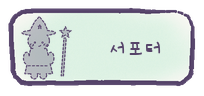
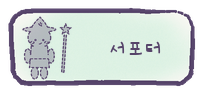
두 종이·체형별 틀 밑그림 생성 (guide_person_<역할>_<체형>, guide_gear_<역할>, paper_person/gear), 틀 카드 아이콘은 사람+무기, 체형 고르기 칸 이미지

Changed region(s): [[0.0882, 0.1562, 0.3529, 0.8438]]

diff --git a/tools/gen_draw.py b/tools/gen_draw.py
@@ -1,9 +1,10 @@
 """유닛 그리기 화면(draw_mode) 이미지 생성 → image/draw/
 
 - panel: 화면을 덮는 커다란 수채화 종이 판
-- paper: 그림을 그리는 흰 도화지 (가운데 PAPER_W x PAPER_H 가 실제로 칠하는 곳)
+- paper_person / paper_gear: 사람·무기를 그리는 흰 도화지 두 장
+- body_<체형> / _on: 체형 고르기 칸 (작은·보통·큰)
 - card / card_on / card_empty: 프리셋(내가 그린 유닛) 카드
-- guide_<id>: 종이에 깔리는 틀 밑그림 — 역할별 귀여운 생물(frames.py)을 삐뚤빼뚤한 연필 점선으로
+- guide_person_<역할>_<체형> / guide_gear_<역할>: 두 종이에 깔리는 틀 밑그림 (frames.py) — 삐뚤빼뚤한 연필 점선
 - frame_<id> / frame_<id>_on: 틀 고르기 카드 (밑그림 + 이름)
 - ink_wave: 고른 잉크 아래 펜으로 쓱 그은 검정 밑줄, eraser: 지우개
 - tab_<all|틀 id> / _on: 내 유닛 화면의 프리셋 나누기 칸 (전체·탱커·근접 딜러·원거리 딜러·서포터)
@@ -62,9 +63,10 @@ def panel():
                 fill_alpha=236, line=4.0, r=30)
 
 
-def paper():
-    w, h = frames.PAPER_W + PAPER_MARGIN * 2, frames.PAPER_H + PAPER_MARGIN * 2
-    sh = Sheet(w, h, seed=910)
+def paper(pw):
+    """흰 도화지 한 장 (가운데 pw x PAPER_H 가 실제로 칠하는 곳)."""
+    w, h = pw + PAPER_MARGIN * 2, frames.PAPER_H + PAPER_MARGIN * 2
+    sh = Sheet(w, h, seed=910 + pw)
     sh.line = PLUM
     # 살짝 기운 그림자 → 흰 도화지
     shadow = pastel.wobbly_box(10, 14, w - 4, h - 2, 10, sh.rng, amp=1.0)
@@ -123,18 +125,18 @@ def _dashes(points, keep=None):
     return [d for d in out if len(d) > 1]
 
 
-def guide(frame, alpha=170, width=3.0, fill_alpha=22, color=GUIDE_LINE):
+def guide(parts, details, w, seed, alpha=170, width=3.0, fill_alpha=22, color=GUIDE_LINE):
     """틀 밑그림: 부위들을 합친 바깥 윤곽 + 무늬를 연필 점선으로, 안은 아주 옅게."""
-    w, h = frames.PAPER_W, frames.PAPER_H
-    sh = Sheet(w, h, seed=1100 + frames.IDS.index(frame['id']))
+    h = frames.PAPER_H
+    sh = Sheet(w, h, seed=seed)
     sh.line = color
-    parts = frame['parts']
     masks = []
     for part in parts:
         m = Image.new('L', (w, h), 0)
         ImageDraw.Draw(m).polygon(frames.outline(part), fill=255)
         masks.append(np.asarray(m.filter(ImageFilter.MinFilter(5))) > 0)   # 조금 줄인 안쪽
-    union = np.asarray(Image.fromarray(((frames.part_mask(frame['id']) > 0) * 255).astype(np.uint8)))
+    union = np.asarray(Image.fromarray((np.any(masks, axis=0) * 255).astype(np.uint8)).filter(
+        ImageFilter.MaxFilter(5)))
     p = Sheet(w, h, seed=1)
     p.fill_poly([(0, 0), (w, 0), (w, h), (0, h)], color, fill_alpha)
     sh.masked(p, Image.fromarray(union))
@@ -146,7 +148,7 @@ def guide(frame, alpha=170, width=3.0, fill_alpha=22, color=GUIDE_LINE):
             return not any(m[yi, xi] for m in others)
         for d in _dashes(frames.outline(part), keep):
             sh.stroke(d, width, alpha=alpha, amp=0.4, taper=False)
-    for det in frame['details']:
+    for det in details:
         if det[0] == 'dot':
             _, x, y, r = det
             sh.fill_poly(ellipse_points(x, y, r, r), color, alpha)
@@ -156,14 +158,31 @@ def guide(frame, alpha=170, width=3.0, fill_alpha=22, color=GUIDE_LINE):
     return sh.result()
 
 
+def person_guide(fid, body, **kw):
+    f = frames.get(fid, body)
+    return guide(f['parts'], f['details'], frames.PERSON_W, 1100 + frames.IDS.index(fid) * 3 +
+                 frames.BODIES.index(body), **kw)
+
+
+def gear_guide(fid, **kw):
+    gear = frames.get(fid)['gear']
+    return guide([p for g in gear for p in g['parts']], [d for g in gear for d in g['details']], frames.GEAR_W,
+                 1150 + frames.IDS.index(fid), **kw)
+
+
 def frame_card(frame, on):
     w, h = FRAME_CARD
     tint = {'tank': 'sky', 'melee': 'pink', 'ranged': 'peach', 'support': 'mint'}[frame['id']]
     img = note(w, h, 930 + frames.IDS.index(frame['id']) * 3 + on,
                ((w / 2, h / 2, w / 2, h / 2, PASTEL[tint], 150 if on else 60),), line=4.2 if on else 3.0, r=16)
     # 왼쪽에 작은 틀 실루엣
-    g = guide(frame, alpha=255, width=6.0, fill_alpha=80 if on else 50, color=PLUM)
-    g = g.crop(g.getbbox())
+    # 아이콘: 사람 밑그림 옆에 무기 밑그림 (종이 두 장을 붙인 모양)
+    kw = dict(alpha=255, width=6.0, fill_alpha=80 if on else 50, color=PLUM)
+    pg, gg = person_guide(frame['id'], 'medium', **kw), gear_guide(frame['id'], **kw)
+    pg, gg = pg.crop(pg.getbbox()), gg.crop(gg.getbbox())
+    g = Image.new('RGBA', (pg.width + 14 + gg.width, max(pg.height, gg.height)), (0, 0, 0, 0))
+    g.alpha_composite(pg, (0, g.height - pg.height))
+    g.alpha_composite(gg, (pg.width + 14, (g.height - gg.height) // 2))
     k = min(62 / g.width, 64 / g.height)   # 아이콘 칸 62px, 나머지는 이름 칸
     icon = g.resize((round(g.width * k), round(g.height * k)), Image.LANCZOS)
     img.alpha_composite(icon, (16 + (62 - icon.width) // 2, (h - icon.height) // 2))
@@ -175,17 +194,18 @@ def frame_card(frame, on):
 
 
 TAB = (138, 58)
+BODY_TAB = (92, 50)
 TABS = (('all', '전체', 'lemon'), ('tank', '탱커', 'sky'), ('melee', '근접 딜러', 'pink'),
         ('ranged', '원거리 딜러', 'peach'), ('support', '서포터', 'mint'))
 
 
-def tab(i, label, tint, on):
-    w, h = TAB
+def tab(i, label, tint, on, size=TAB, font_size=24):
+    w, h = size
     img = note(w, h, 1000 + i * 2 + on, ((w / 2, h / 2, w / 2, h / 2, PASTEL[tint], 170 if on else 45),),
                fill_alpha=250 if on else 170, line=3.8 if on else 2.6, r=16)
     sh = Sheet(w, h, seed=0, ss=1)
     sh.img = img
-    sh.ink_text(label, ImageFont.truetype(os.path.join(pastel.FONTS, pastel.HAND), 24), w / 2, h / 2, PLUM,
+    sh.ink_text(label, ImageFont.truetype(os.path.join(pastel.FONTS, pastel.HAND), font_size), w / 2, h / 2, PLUM,
                 alpha=255 if on else 170, anchor='mm')
     return img
 
@@ -280,16 +300,23 @@ BUTTONS = (  # 파일 이름, 글씨, 색, 크기
 
 def main():
     save(panel(), 'panel.png')
-    save(paper(), 'paper.png')
+    save(paper(frames.PERSON_W), 'paper_person.png')
+    save(paper(frames.GEAR_W), 'paper_gear.png')
     for state in ('off', 'on', 'empty'):
         save(card(state), {'off': 'card.png', 'on': 'card_on.png', 'empty': 'card_empty.png'}[state])
     for f in frames.FRAMES:
-        save(guide(f), f'guide_{f["id"]}.png')
+        for body in frames.BODIES:
+            save(person_guide(f['id'], body), f'guide_person_{f["id"]}_{body}.png')
+        save(gear_guide(f['id']), f'guide_gear_{f["id"]}.png')
         for on in (False, True):
             save(frame_card(f, on), f'frame_{f["id"]}{"_on" if on else ""}.png')
     for i, (tid, label, tint) in enumerate(TABS):
         for on in (False, True):
             save(tab(i, label, tint, on), f'tab_{tid}{"_on" if on else ""}.png')
+    for i, body in enumerate(frames.BODIES):
+        for on in (False, True):
+            save(tab(10 + i, frames.BODY_NAMES[body], 'lavender', on, BODY_TAB, 22),
+                 f'body_{body}{"_on" if on else ""}.png')
     save(field(), 'field.png')
     save(spot('ally'), 'spot.png')
     save(spot('on'), 'spot_on.png')
